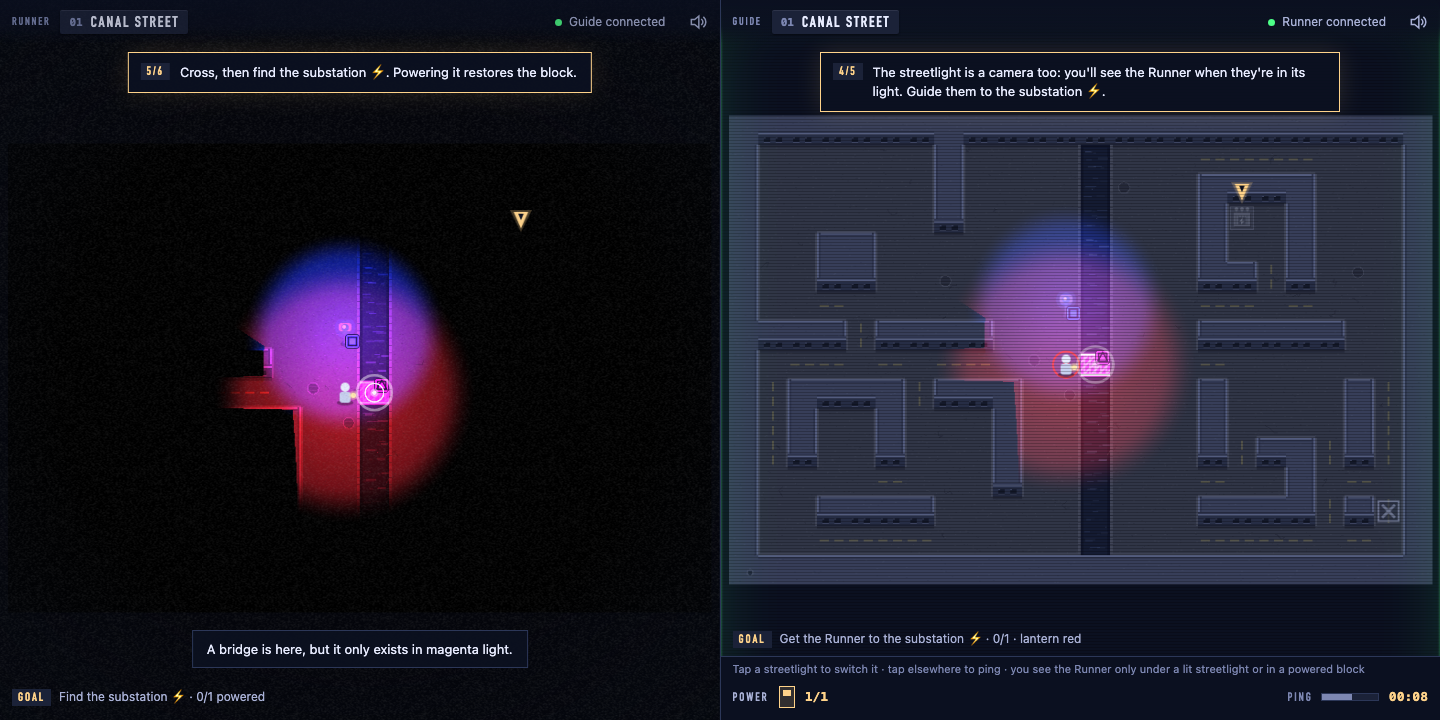
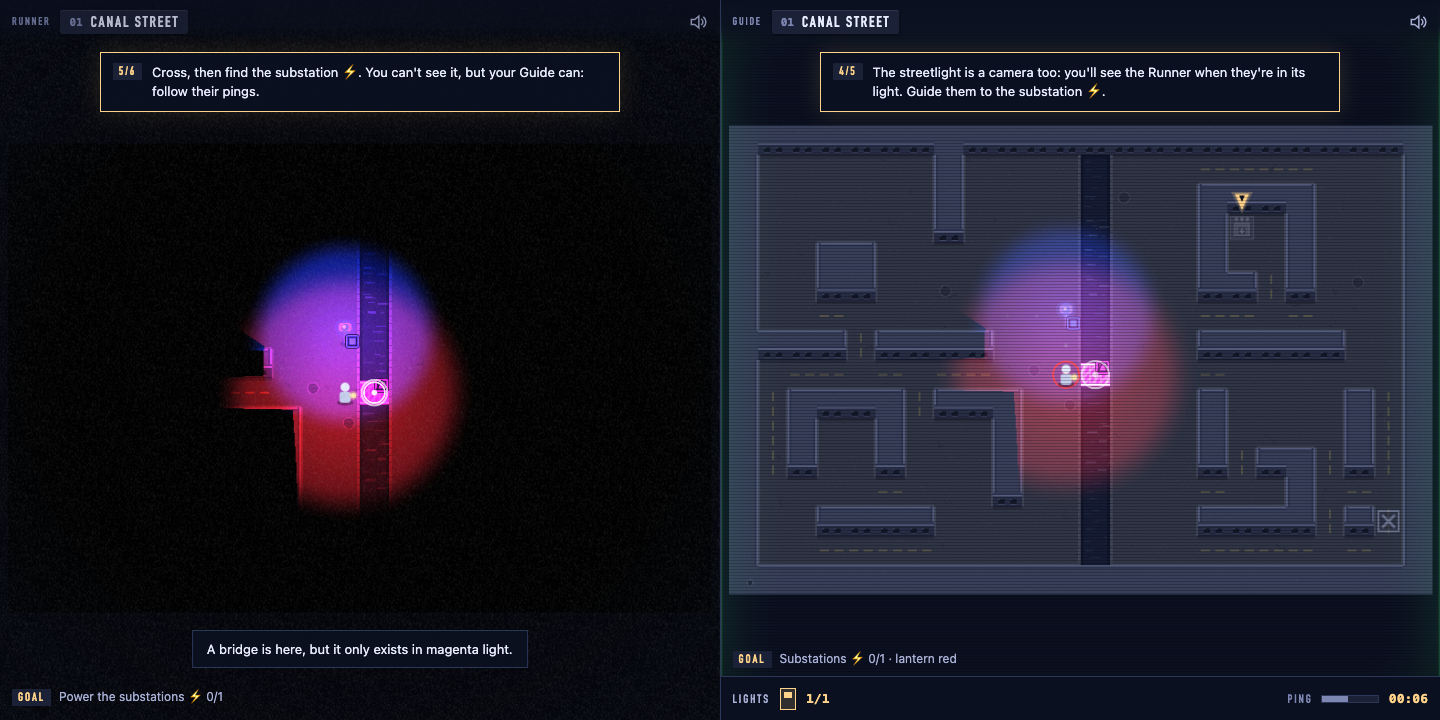
Playtest fixes and a quieter HUD
Tutorial bridge step no longer skips or goes blank; danger pings;
the open exit glows; the last-seen ghost resets and follows catches;
'Lights' instead of 'Power'; smaller phone tap reach. The guide's
instruction strip is gone and its bar is one row; goals are short.

Assisted-By: Claude Opus 5.5

diff --git a/src/scenes/Guide.ts b/src/scenes/Guide.ts
@@ -17,7 +17,7 @@ import { fitCamera, HUD_TOP } from "./fit.ts";
 
 const PING_COOLDOWN = 2000;
 const FLARE_MS = 2500;
-const HUD_BOTTOM = 64;
+const HUD_BOTTOM = 44;
 
 /** The Guide: sees the city and the drones, owns streetlights and pings, sees the Runner only on camera. */
 export class GuideScene extends Phaser.Scene {
@@ -50,6 +50,7 @@ export class GuideScene extends Phaser.Scene {
   private ghost!: Phaser.GameObjects.Image;
   private ghostLabel!: Phaser.GameObjects.Text;
   private trail: Phaser.GameObjects.Arc[] = [];
+  private exitGlow = { x: 0, y: 0, w: 3, h: 3 };
   private drones = new Map<string, { img: Phaser.GameObjects.Image; warn: Phaser.GameObjects.Image; color: number; tile: Vec }>();
 
   constructor() { super("guide"); }
@@ -59,7 +60,7 @@ export class GuideScene extends Phaser.Scene {
   create() {
     makeTextures(this);
     addPost(this, "guide");
-    this.hud = new Hud(this.game.canvas.parentElement!, "guide", this.data_.room);
+    this.hud = new Hud(this.game.canvas.parentElement!, "guide", this.data_.room, this.data_.local);
     this.events.once("shutdown", () => this.hud.destroy());
     this.tutor = new Tutor(this, this.hud, "guide");
     this.net.onMessage((m) => this.onMsg(m));
@@ -72,8 +73,10 @@ export class GuideScene extends Phaser.Scene {
     this.lanternRing = this.add.image(0, 0, "ping").setDepth(19).setScale(0.55).setAlpha(0.9);
     this.runner = this.add.image(0, 0, "runner").setDepth(20);
     this.ghost = this.add.image(0, 0, "runner").setDepth(18).setAlpha(0.28).setTint(0x7d87b2);
-    this.ghostLabel = this.add.text(0, 0, "", { fontFamily: "ui-monospace, Menlo, monospace", fontSize: "15px", color: "#a9b1d6", stroke: "#0b1020", strokeThickness: 4 }).setOrigin(0.5, 2.2).setDepth(18).setResolution(2);
-    this.input.on("pointerdown", (p: Phaser.Input.Pointer) => this.tap(p));
+    this.ghostLabel = this.add.text(0, 0, "", { fontFamily: "ui-monospace, Menlo, monospace", fontSize: "15px", color: "#a9b1d6", stroke: "#0b1020", strokeThickness: 4 }).setOrigin(0.5, -1.1).setDepth(18).setResolution(2);
+    this.input.mouse?.disableContextMenu();
+    this.input.on("pointerdown", (p: Phaser.Input.Pointer) => { if (p.rightButtonDown()) this.tap(p, true); else if (!p.wasTouch) this.tap(p); });
+    this.input.on("pointerup", (p: Phaser.Input.Pointer) => { if (p.wasTouch) this.tap(p, p.getDuration() > 450); });
     this.scale.on("resize", () => this.fit());
     this.loadDistrict(0);
   }
@@ -94,6 +97,7 @@ export class GuideScene extends Phaser.Scene {
     this.lightsOn.clear();
     this.powered.clear();
     this.lantern = this.level.lantern;
+    this.exitGlow = { x: this.level.exit.x - 1, y: this.level.exit.y - 1, w: 3, h: 3 };
     this.map = new MapView(this, this.level, { glyphs: true }).setDepth(0);
     this.map.base.setAlpha(0.55);
     for (const f of this.level.filters) this.map.base.add(this.add.image(f.x * TILE + TILE / 2, f.y * TILE + TILE / 2, `filter-${f.color}`));
@@ -110,11 +114,11 @@ export class GuideScene extends Phaser.Scene {
     this.moveRunner(this.level.start, false);
     this.lastSeenAt = this.time.now;
     this.lastSeenPos = { ...this.level.start };
+    this.seen = false;
     this.fit();
     this.coach = { pinged: false, flared: false };
     this.tutor.setDistrict(i);
     this.hud.district(i, this.level.name, this.level.intro);
-    this.hud.hint(`Tap a streetlight to switch it · tap elsewhere to ping · you see the Runner only under a lit streetlight or in a powered block${this.level.drones.length ? " · amber ring: a drone the Runner can't see" : ""}`);
     this.redraw();
   }
 
@@ -130,27 +134,29 @@ export class GuideScene extends Phaser.Scene {
     this.lanternRing.setVisible(seen).setTint(hex(this.lantern));
     // The ghost stays where the cameras last saw the runner; it must not follow the hidden sprite.
     const gx = this.lastSeenPos.x * TILE + TILE / 2, gy = this.lastSeenPos.y * TILE + TILE / 2;
-    this.ghost.setVisible(!seen).setPosition(gx, gy);
-    this.ghostLabel.setVisible(!seen).setPosition(gx, gy);
+    const ghost = !seen && (this.peer || !!this.data_.local);
+    this.ghost.setVisible(ghost).setPosition(gx, gy);
+    this.ghostLabel.setVisible(ghost).setPosition(gx, gy);
     // The lantern's own pool would give the runner away, so it shows only while they're on camera.
     const lit = sources(this.level, this.runnerPos, this.lightsOn, this.lantern);
     const glow = this.level.substations.filter((s) => this.powered.has(s.id)).map((s) => s.block);
+    if (this.powered.size === this.level.substations.length) glow.push(this.exitGlow);
     this.lightLayer!.draw(seen ? lit : lit.slice(1), glow);
     const field = lightField(this.level, lit);
     for (const d of this.drones.values()) d.warn.setVisible(seen && !droneVisible(field[d.tile.y * this.level.w + d.tile.x], d.color));
     this.hud.budget(this.lightsOn.size, this.budget);
     const left = this.level.substations.length - this.powered.size;
-    this.hud.objective(`${left ? `Get the Runner to the substation ⚡ · ${this.powered.size}/${this.level.substations.length}` : "Guide the Runner to the exit"} · lantern ${NAMES[this.lantern]}`, !left);
+    this.hud.objective(`${left ? `Substations ⚡ ${this.powered.size}/${this.level.substations.length}` : "Exit open"} · lantern ${NAMES[this.lantern]}`, !left);
   }
 
-  private tap(p: Phaser.Input.Pointer) {
+  private tap(p: Phaser.Input.Pointer, danger = false) {
     sfx.unlock();
     if (!this.data_.local && !this.awake) { this.awake = true; sfx.ambient((this.di + this.powered.size / this.level.substations.length) / LEVELS.length); }
     const w = this.cameras.main.getWorldPoint(p.x, p.y);
     const fx = w.x / TILE, fy = w.y / TILE;
     if (fx < 0 || fy < 0 || fx >= this.level.w || fy >= this.level.h) return;
-    // Streetlights are small on a phone, so a touch snaps to one within a tile and a half.
-    const reach = p.wasTouch ? 1.5 : 0.9;
+    // Streetlights are small on a phone, so a touch snaps to one a little outside its tile.
+    const reach = danger ? 0 : p.wasTouch ? 1.1 : 0.9;
     const lamp = this.level.lights
       .map((l) => ({ l, d: Math.hypot(l.x + 0.5 - fx, l.y + 0.5 - fy) }))
       .filter((c) => c.d < reach)
@@ -161,9 +167,9 @@ export class GuideScene extends Phaser.Scene {
     this.lastPing = this.time.now;
     this.coach.pinged = true;
     this.hud.ping(PING_COOLDOWN);
-    this.net.send({ t: "ping", id: Math.random().toString(36).slice(2, 8), p: tile });
-    if (!this.data_.local) sfx.ping();
-    this.showPing(tile);
+    this.net.send({ t: "ping", id: Math.random().toString(36).slice(2, 8), p: tile, danger });
+    if (!this.data_.local) { if (danger) sfx.denied(); else sfx.ping(); }
+    this.showPing(tile, danger ? 0xff4d5e : 0xffffff);
   }
 
   private toggle(id: string) {
@@ -188,7 +194,11 @@ export class GuideScene extends Phaser.Scene {
 
   private moveRunner(p: Vec, animate = true) {
     const jumped = Math.abs(p.x - this.runnerPos.x) + Math.abs(p.y - this.runnerPos.y) > 1;
-    if (animate && jumped) this.hud.toast("The Runner was caught and sent back to the checkpoint.");
+    if (animate && jumped) {
+      this.hud.toast("The Runner was caught and sent back to the checkpoint.");
+      this.lastSeenPos = { ...p };
+      this.lastSeenAt = this.time.now;
+    }
     if (animate && this.seen && !jumped) {
       const dot = this.add.circle(this.runner.x, this.runner.y, 4, 0xe8ecff, 0.6).setDepth(19);
       this.trail.push(dot);

diff --git a/src/hud.ts b/src/hud.ts
@@ -2,7 +2,7 @@ import { sfx } from "./audio/sfx.ts";
 import type { NetStatus } from "./net/transport.ts";
 import type { Role } from "./shared/protocol.ts";
 
-// Heights are load-bearing: src/scenes/fit.ts reserves 44px on top and the Guide reserves 64px below.
+// Heights are load-bearing: src/scenes/fit.ts reserves 44px on top and the Guide reserves 44px below.
 const CSS = `
 .hud{--night:#0b1020;--wall:#1b2238;--edge:#2c3758;--street:#141a2e;--amber:#ffd38a;--red:#ff4d5e;--green:#4dff88;--ink:#e8ecff;--dim:#a9b1d6;--faint:#7d87b2;
   --tape:"DIN Condensed","Bahnschrift","Roboto Condensed","Arial Narrow",sans-serif-condensed,system-ui,sans-serif;
@@ -38,10 +38,10 @@ const CSS = `
   background:rgba(11,16,32,.92);border:1px solid var(--edge);color:var(--ink);text-align:center;line-height:1.4;
   opacity:0;transform:translate(-50%,6px);transition:opacity .2s ease,transform .2s var(--ease)}
 .hud .toast.show{opacity:1;transform:translate(-50%,0)}
-.hud.guide .toast{bottom:100px}
+.hud.guide .toast{bottom:80px}
 .hud.runner .toast{bottom:52px}
 .hud .objective{position:absolute;left:12px;bottom:14px;max-width:calc(100% - 24px);display:flex;align-items:center;gap:8px;font-size:12px;color:var(--dim);white-space:nowrap;overflow:hidden;text-overflow:ellipsis}
-.hud.guide .objective{bottom:72px}
+.hud.guide .objective{bottom:52px}
 .hud .objective .lbl{flex:none;padding:3px 6px 2px;background:var(--wall);color:var(--amber)}
 .hud .objective.done .lbl{color:var(--green)}
 .hud .coach{position:absolute;left:50%;top:52px;box-sizing:border-box;width:max-content;max-width:min(calc(100% - 24px),520px);padding:10px 14px 10px 12px;
@@ -55,10 +55,10 @@ const CSS = `
 .hud .card.show{opacity:1;transform:translate(-50%,-50%) scale(1)}
 .hud .card h3{margin:0;font:700 26px/1 var(--tape);font-stretch:condensed;letter-spacing:.14em;text-transform:uppercase;color:var(--amber)}
 .hud .card p{margin:8px 0 0;font-size:13px;color:var(--dim)}
-.hud .bottom{position:absolute;left:0;right:0;bottom:0;height:64px;box-sizing:border-box;padding:6px 12px;display:grid;grid-template-rows:auto 1fr;gap:4px;
+.hud .bottom{position:absolute;left:0;right:0;bottom:0;height:44px;box-sizing:border-box;padding:0 12px;display:flex;align-items:center;
   background:var(--night);border-top:1px solid var(--edge)}
-.hud .hint{display:-webkit-box;-webkit-box-orient:vertical;-webkit-line-clamp:2;overflow:hidden;font-size:11px;line-height:12px;color:var(--faint);text-wrap:balance}
-.hud .deck{display:flex;align-items:center;gap:10px;min-width:0}
+.hud .deck{flex:1;display:flex;align-items:center;gap:10px;min-width:0}
+.hud.local .net{display:none}
 .hud .lbl{font:700 12px/1 var(--tape);font-stretch:condensed;letter-spacing:.16em;text-transform:uppercase;color:var(--dim);padding-top:2px}
 .hud .bars{display:flex;gap:4px}
 .hud .bar{position:relative;width:16px;height:22px;box-sizing:border-box;background:var(--wall);border:1px solid var(--edge);transition:background-color .16s,border-color .16s}
@@ -74,7 +74,7 @@ const CSS = `
 .hud .ping.charging .lbl{color:var(--faint)}
 .hud .ping.charging .meter i{background:var(--faint)}
 .hud .clock{font:600 13px/1 var(--mono);font-variant-numeric:tabular-nums;color:var(--amber);min-width:5ch;text-align:right}
-@container (max-width:479px){.hud .role,.hud .room{display:none}}
+@container (max-width:479px){.hud .role,.hud .room{display:none}.hud .coach{top:48px;padding:7px 10px;font-size:12px;line-height:1.4}.hud .intro{font-size:12px}}
 @container (max-width:339px){.hud .net{font-size:0;gap:0}}
 @media (prefers-reduced-motion:reduce){.hud *,.hud *::before,.hud *::after{animation:none!important;transition-property:opacity,background-color,border-color,color!important}}
 `;
@@ -88,16 +88,17 @@ export class Hud {
   private toastTimer = 0;
   private introTimer = 0;
 
-  constructor(pane: HTMLElement, readonly role: Role, room?: string) {
+  constructor(pane: HTMLElement, readonly role: Role, room?: string, local = false) {
     if (!document.getElementById("hud-css")) {
       const s = document.createElement("style"); s.id = "hud-css"; s.textContent = CSS; document.head.appendChild(s);
     }
     this.el = document.createElement("div");
-    this.el.className = `hud ${role}`;
+    // One screen, both roles: the connection pill would always say "connected", so it's hidden.
+    this.el.className = `hud ${role}${local ? " local" : ""}`;
     this.el.innerHTML = `
       <div class="top"><span class="role"></span><span class="tape"><b class="num"></b><span class="name"></span></span><span class="sp"></span><span class="room"></span><span class="net wait" role="status">Connecting…</span><button class="mute" type="button" aria-label="Sound">${SPEAKER}</button></div>
       <div class="intro off"></div><div class="coach off" role="status"><span class="lbl"></span><span class="say"></span></div><div class="toast" role="status"></div><div class="objective"><span class="lbl">Goal</span><span class="obj"></span></div><div class="card" aria-live="polite"><h3></h3><p></p></div>
-      ${role === "guide" ? `<div class="bottom"><div class="hint"></div><div class="deck"><span class="lbl">Power</span><span class="bars"></span><span class="count"></span><span class="sp"></span><span class="ping"><span class="lbl">Ping</span><span class="meter"><i></i></span></span><span class="clock"></span></div></div>` : ""}`;
+      ${role === "guide" ? `<div class="bottom"><div class="deck"><span class="lbl">Lights</span><span class="bars"></span><span class="count"></span><span class="sp"></span><span class="ping"><span class="lbl">Ping</span><span class="meter"><i></i></span></span><span class="clock"></span></div></div>` : ""}`;
     this.q(".role").textContent = role === "runner" ? "Runner" : "Guide";
     if (room) {
       const r = this.q(".room");
@@ -186,7 +187,6 @@ export class Hud {
     window.setTimeout(() => el.classList.remove("show"), ms);
   }
 
-  hint(text: string) { const el = this.q(".hint"); if (el) el.textContent = text; }
   clock(text: string) { const el = this.q(".clock"); if (el) el.textContent = text; }
   destroy() { this.el.remove(); }
 }

diff --git a/src/scenes/Runner.ts b/src/scenes/Runner.ts
@@ -52,12 +52,14 @@ export class RunnerScene extends Phaser.Scene {
   private transitioning = false;
   private awake = false;
   private tutor!: Tutor;
-  private coach = { moved: 0, flared: false, pinged: false };
+  private coach = { moved: 0, flared: false, pinged: false, bridgeOpen: false };
 
   private map?: MapView;
   private lightLayer?: LightLayer;
   private runner!: Phaser.GameObjects.Image;
   private filterImgs: Phaser.GameObjects.Image[] = [];
+  /** Warm light around the exit once it opens, so "the exit is lit" is something you can see. */
+  private exitGlow = { x: 0, y: 0, w: 3, h: 3 };
   private drones: { def: Level["drones"][number]; img: Phaser.GameObjects.Image; tile: Vec }[] = [];
   private dronesDirty = false;
   private lastDroneSend = 0;
@@ -77,7 +79,7 @@ export class RunnerScene extends Phaser.Scene {
   create() {
     makeTextures(this);
     addPost(this, "runner");
-    this.hud = new Hud(this.game.canvas.parentElement!, "runner", this.data_.room);
+    this.hud = new Hud(this.game.canvas.parentElement!, "runner", this.data_.room, this.data_.local);
     this.events.once("shutdown", () => this.hud.destroy());
     this.tutor = new Tutor(this, this.hud, "runner");
     const kb = this.input.keyboard!;
@@ -144,6 +146,7 @@ export class RunnerScene extends Phaser.Scene {
     this.filterImgs = this.level.filters.map((f) => this.add.image(f.x * TILE + TILE / 2, f.y * TILE + TILE / 2, `filter-${f.color}`).setDepth(2));
     this.drones = this.level.drones.map((def) => ({ def, img: this.add.image(0, 0, `drone-${def.color}`).setDepth(15).setVisible(false), tile: { ...def.path[0] } }));
     this.pos = { ...this.level.start };
+    this.exitGlow = { x: this.level.exit.x - 1, y: this.level.exit.y - 1, w: 3, h: 3 };
     this.lantern = this.level.lantern;
     this.checkpoint = { pos: { ...this.pos }, lantern: this.lantern };
     this.runner.setPosition(this.pos.x * TILE + TILE / 2, this.pos.y * TILE + TILE / 2);
@@ -153,7 +156,7 @@ export class RunnerScene extends Phaser.Scene {
     this.fit();
     this.hud.district(i, this.level.name, this.level.intro);
     this.updateObjective();
-    this.coach = { moved: 0, flared: false, pinged: false };
+    this.coach = { moved: 0, flared: false, pinged: false, bridgeOpen: false };
     this.tutor.setDistrict(i);
     if (this.awake) sfx.ambient(this.progress);
   }
@@ -165,7 +168,7 @@ export class RunnerScene extends Phaser.Scene {
 
   private updateObjective() {
     const left = this.level.substations.length - this.powered.size;
-    this.hud.objective(left ? `Find the substation ⚡ · ${this.powered.size}/${this.level.substations.length} powered` : "The exit is lit. Find it.");
+    this.hud.objective(left ? `Power the substations ⚡ ${this.powered.size}/${this.level.substations.length}` : "Reach the exit", !left);
   }
 
   /** How much of the whole city is back on, 0..1, for the ambient pad. */
@@ -311,6 +314,7 @@ export class RunnerScene extends Phaser.Scene {
       // Standing on a bridge or door that just lost its light.
       if (!this.canEnter(this.pos.x, this.pos.y)) this.respawn(this.level.at(this.pos.x, this.pos.y) === "~" ? "The bridge vanished under you." : "The door closed on you.");
     } else if (m.t === "ping") {
+      if (m.danger) { this.showDanger(m.p); sfx.denied(); return; }
       this.showPing(m.p);
       this.coach.pinged = true;
       sfx.ping();
@@ -324,6 +328,16 @@ export class RunnerScene extends Phaser.Scene {
     this.tweens.add({ targets: ring, scale: 1.1, alpha: 0, duration: 750, repeat: 3 });
     this.tweens.add({ targets: dot, scale: 0.35, yoyo: true, repeat: 5, duration: 250 });
     this.time.delayedCall(3000, () => { ring.destroy(); dot.destroy(); });
+  }
+
+  /** The guide's warning: something dangerous here, don't walk in. */
+  private showDanger(p: Vec) {
+    const x = p.x * TILE + TILE / 2, y = p.y * TILE + TILE / 2;
+    const ring = this.add.image(x, y, "ping").setDepth(30).setScale(0.5).setTint(0xff4d5e);
+    const mark = this.add.text(x, y, "!", { fontFamily: "ui-monospace, Menlo, monospace", fontSize: "26px", fontStyle: "bold", color: "#ff4d5e", stroke: "#0b1020", strokeThickness: 5 }).setOrigin(0.5).setDepth(31);
+    this.tweens.add({ targets: ring, scale: 0.8, alpha: 0.4, duration: 260, yoyo: true, repeat: 5 });
+    this.time.delayedCall(3000, () => { ring.destroy(); mark.destroy(); });
+    this.hud.toast("Danger! Your Guide warns you off that spot.", 1800);
   }
 
   /** Next step toward a tapped tile: BFS over what the runner can currently walk on. */
@@ -382,15 +396,16 @@ export class RunnerScene extends Phaser.Scene {
     }
 
     const at = (p: Vec) => this.field[p.y * this.level.w + p.x];
+    this.coach.bridgeOpen ||= this.level.gates.some((g) => g.kind === "bridge" && reveals(at(g), g.color));
     this.tutor.update({
       level: this.level, runner: this.pos, ...this.coach, lampsOn: this.lightsOn.size, powered: this.powered.size, seen: true,
-      bridgeOpen: this.level.gates.some((g) => g.kind === "bridge" && reveals(at(g), g.color)),
       filterInView: this.level.filters.find((f) => at(f) && f.color !== this.lantern) ?? null,
       unseenDrone: null,
       visible: (p) => at(p) !== 0,
     });
 
     const glow = this.level.substations.filter((s) => this.powered.has(s.id)).map((s) => s.block);
+    if (this.exitOpen) glow.push(this.exitGlow);
     const lit = sources(this.level, { x: rx, y: ry }, this.lightsOn, this.lantern);
     lit[0].radius = LANTERN_RADIUS;
     this.lightLayer!.draw(lit, glow);

diff --git a/src/tutorial.ts b/src/tutorial.ts
@@ -12,7 +12,7 @@ export type TutorCtx = {
   pinged: boolean; // guide sent / runner received a ping
   lampsOn: number;
   powered: number;
-  bridgeOpen: boolean;
+  bridgeOpen: boolean; // sticky: a bridge has been revealed at least once this district
   seen: boolean; // guide: runner on camera
   filterInView: Vec | null;
   unseenDrone: Vec | null;
@@ -22,7 +22,6 @@ export type TutorCtx = {
 
 type Step = { text: string; target?: (c: TutorCtx) => Vec | undefined; done: (c: TutorCtx) => boolean; when?: (c: TutorCtx) => boolean };
 
-const near = (a: Vec, b: Vec, r: number) => Math.abs(a.x - b.x) + Math.abs(a.y - b.y) <= r;
 const bridge = (c: TutorCtx) => c.level.gates.find((g) => g.kind === "bridge");
 const sub = (c: TutorCtx) => c.level.substations[0];
 
@@ -32,7 +31,7 @@ const TUTORIAL: Record<Role, Step[]> = {
     { text: "Walk with the arrow keys or WASD, or tap a tile. You only see what your lantern lights.", target: (c) => c.runner, done: (c) => c.moved >= 4 },
     { text: "Your Guide sees the whole city, but sees you only under a lit streetlight. Press Space (or tap yourself) to flare and show them where you are.", target: (c) => c.runner, done: (c) => c.flared },
     { text: "Talk to your Guide. Their pings show up even in the dark: head where they point.", done: (c) => c.pinged || c.moved >= 14 },
-    { text: "A bridge crosses the canal here, but only in magenta light. Red lantern + blue streetlight = magenta. Ask for blue!", target: (c) => bridge(c), when: (c) => !!bridge(c) && near(c.runner, bridge(c)!, 4), done: (c) => c.bridgeOpen || c.powered > 0 },
+    { text: "A bridge crosses the canal, but only in magenta light. Red lantern + blue streetlight = magenta. Walk to the canal and ask your Guide for blue!", target: (c) => bridge(c), done: (c) => c.bridgeOpen || c.powered > 0 },
     { text: "Cross, then find the substation ⚡. You can't see it, but your Guide can: follow their pings.", target: (c) => sub(c), done: (c) => c.powered > 0 },
     { text: "The block is back on and the exit is lit. Ask your Guide the way, then go!", target: (c) => c.level.exit, done: () => false },
   ],
@@ -51,7 +50,7 @@ const HINTS: Record<Role, Step[]> = {
     { text: "Colored glass! Walk over a filter to change your lantern's color. Your Guide has to plan around it.", target: (c) => c.filterInView ?? undefined, when: (c) => !!c.filterInView, done: () => false },
   ],
   guide: [
-    { text: "Amber ring: a drone the Runner can't see. Light it in its own color, or ping a warning.", target: (c) => c.unseenDrone ?? undefined, when: (c) => !!c.unseenDrone, done: () => false },
+    { text: "Amber ring: a drone the Runner can't see. Light it in its own color, or right-click (hold on a phone) to send a danger ping.", target: (c) => c.unseenDrone ?? undefined, when: (c) => !!c.unseenDrone, done: () => false },
   ],
 };
 const HINT_MS = 7000;

diff --git a/src/title.ts b/src/title.ts
@@ -129,9 +129,9 @@ export function showTitle(root: HTMLElement, start: Start): void {
     el("h2", { textContent: "How to play" }),
     el("dl", { className: "ov-roles" },
       el("div", {}, el("dt", {}, tape("Runner")), el("dd", { textContent: "Walks the dark streets with a lantern and sees only what light reaches. Arrows or WASD, or tap to move. Space flares so the Guide can find you. Colored glass on the street changes your lantern." })),
-      el("div", {}, el("dt", {}, tape("Guide")), el("dd", { textContent: "Runs the grid from the control room. Sees the city and its drones, but the Runner only on camera: under a lit streetlight or in a powered block. Tap to ping, tap a streetlight to switch it, within the power budget." })),
+      el("div", {}, el("dt", {}, tape("Guide")), el("dd", { textContent: "Runs the grid from the control room. Sees the city and its drones, but the Runner only on camera: under a lit streetlight or in a powered block. Tap to ping, right-click or hold to warn, tap a streetlight to switch it, within the power budget." })),
     ),
-    el("p", { className: "ov-rule", textContent: "Light adds up. Bridges and doors only exist in the right mix." }),
+    el("p", { className: "ov-rule", textContent: "Light adds up. A bridge or door appears when all its colors are in the light: magenta needs red and blue on it." }),
     el("ul", { className: "ov-mixes" }, mixRow(R, B), mixRow(R, G), mixRow(G, B)),
   );
 

diff --git a/src/shared/protocol.ts b/src/shared/protocol.ts
@@ -8,7 +8,7 @@ export type Msg =
   | { t: "snapshot"; s: Snapshot } // runner -> server -> guide
   | { t: "runner_move"; p: Vec }
   | { t: "drones"; d: { id: string; p: Vec }[] }
-  | { t: "ping"; id: string; p: Vec }
+  | { t: "ping"; id: string; p: Vec; danger?: boolean } // danger: "stop, don't go here"
   | { t: "light"; id: string; on: boolean }
   | { t: "substation"; id: string }
   | { t: "district"; index: number }

diff --git a/docs/DEVLOG.md b/docs/DEVLOG.md
@@ -82,3 +82,21 @@ Mistake of the hour: a scratch worktree's `node_modules` was a symlink, which th
 - **Two-browser check on production** (`scripts/net-check.mjs`): the Runner starts from the title, the Guide joins by link on an iPhone-sized viewport, and moves, the off-camera rule, flares, and streetlights all cross the real Worker.
 
 ![Network check, Guide on a phone](shots/net-guide-phone.png)
+
+## 14:40 Second playtest, and a quieter HUD
+A second fresh agent played the live build: the tutorial, filters, cameras, and the phone Guide. Fixes:
+- **The tutorial skipped the color lesson, then went blank twice.** The bridge step waited until the Runner was near the bridge, by which time the Guide had already lit it. After crossing, the step "undid" itself as the bridge went dark behind them. Now the step shows right after the ping, and "the bridge has opened" sticks once it happens.
+- **"Power 1/2" read as substations.** It's now **Lights**.
+- **"Ping a warning" had no warning.** Right-click (or hold on a phone) now sends a **danger ping**: a red "!" and a buzz on the Runner's side.
+- **"The exit is lit" lit nothing.** The open exit now glows warm on both screens.
+- **The "last seen" ghost:** hidden until a Runner is in the room, reset each district, moved to the checkpoint after a catch, and its label moved below it so the tutorial pointer doesn't cover it.
+- **Phone:** the streetlight tap target shrank from 1.5 to 1.1 tiles, so you can ping next to one.
+- **Copy:** gates need *all* their colors in the light (extra colors don't hurt). The title and README now say that instead of "the right mix".
+
+Richard's notes, also done:
+- The Runner's tutorial pointer no longer marks tiles that are dark for the Runner (it was pointing at the substation and exit through the blackout).
+- Two computers is the main way to play: the lobby leads with a copyable link, and the QR code is the phone option.
+- **The HUD showed too much at once.** We removed the Guide's two-line instruction strip, which repeated the tutorial, title, and tips. The Guide's bottom bar is one row, giving the map 20px more on phones. Goal lines are a few words. The connection pill is hidden in one-screen mode.
+- **Filters gave colors the streetlights already had.** Districts 2 and 3 are being redesigned so the Runner's glass colors and the city's streetlight colors never overlap, enforced by the validator.
+
+![Quieter HUD](shots/d1-magenta-bridge.png)

diff --git a/README.md b/README.md
@@ -12,7 +12,7 @@ A two-player co-op puzzle game about a city in blackout, made for WolfJam 2026 (
 
 One player is the **Runner**. They walk the dark streets carrying a lantern and see only what light reaches. Outside the light there is nothing at all. The other player is the **Guide**, in the utility control room. The Guide sees the city map and its security drones, but sees the Runner only **on camera**: the streetlights are the control room's cameras, so the Guide sees the Runner only under a lit streetlight or inside a block that is back on the grid. The Guide drops pings and switches colored streetlights on and off within a power budget. The Runner can **flare** to show the Guide where they are.
 
-Light colors add. Some bridges and doors exist only under a specific mixed color, and some drones show up only under theirs. Colored glass **filters** on the street change the Runner's lantern color, so both players choose colors. Neither player can see the solution alone, so the puzzles happen where the two players' lights overlap.
+Light colors add. A colored bridge or door exists only while all of its colors are in the light on it: a magenta bridge needs red and blue (extra colors don't hurt). Drones show up only under their own color. Colored glass **filters** on the street change the Runner's lantern color, so both players choose colors. Neither player can see the solution alone, so the puzzles happen where the two players' lights overlap.
 
 | Mix | Makes | Used for |
 |---|---|---|
